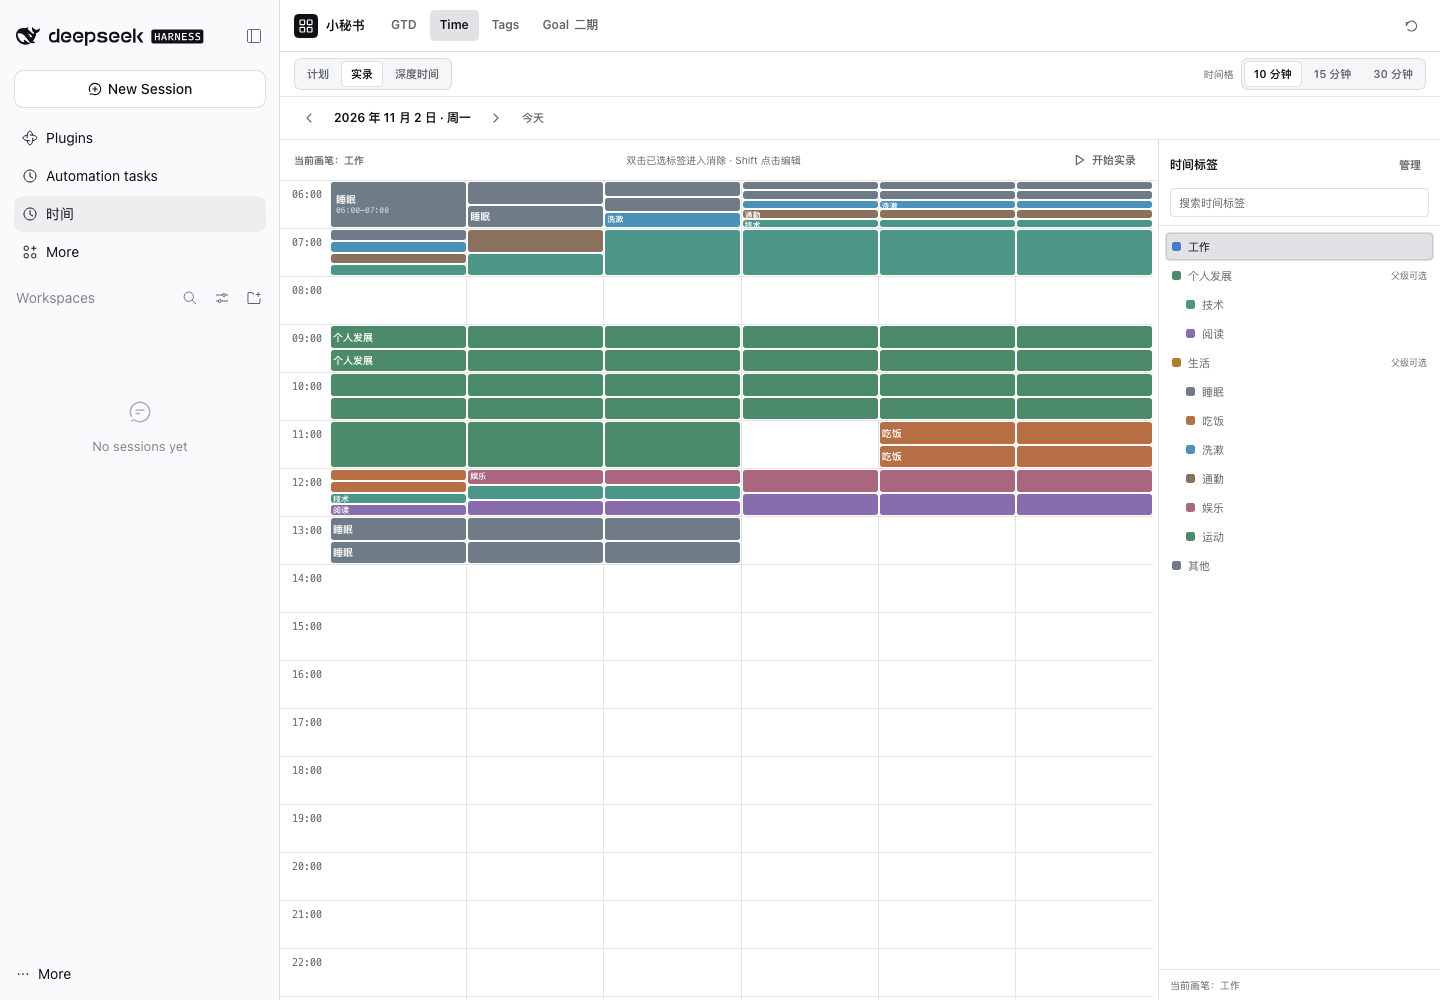
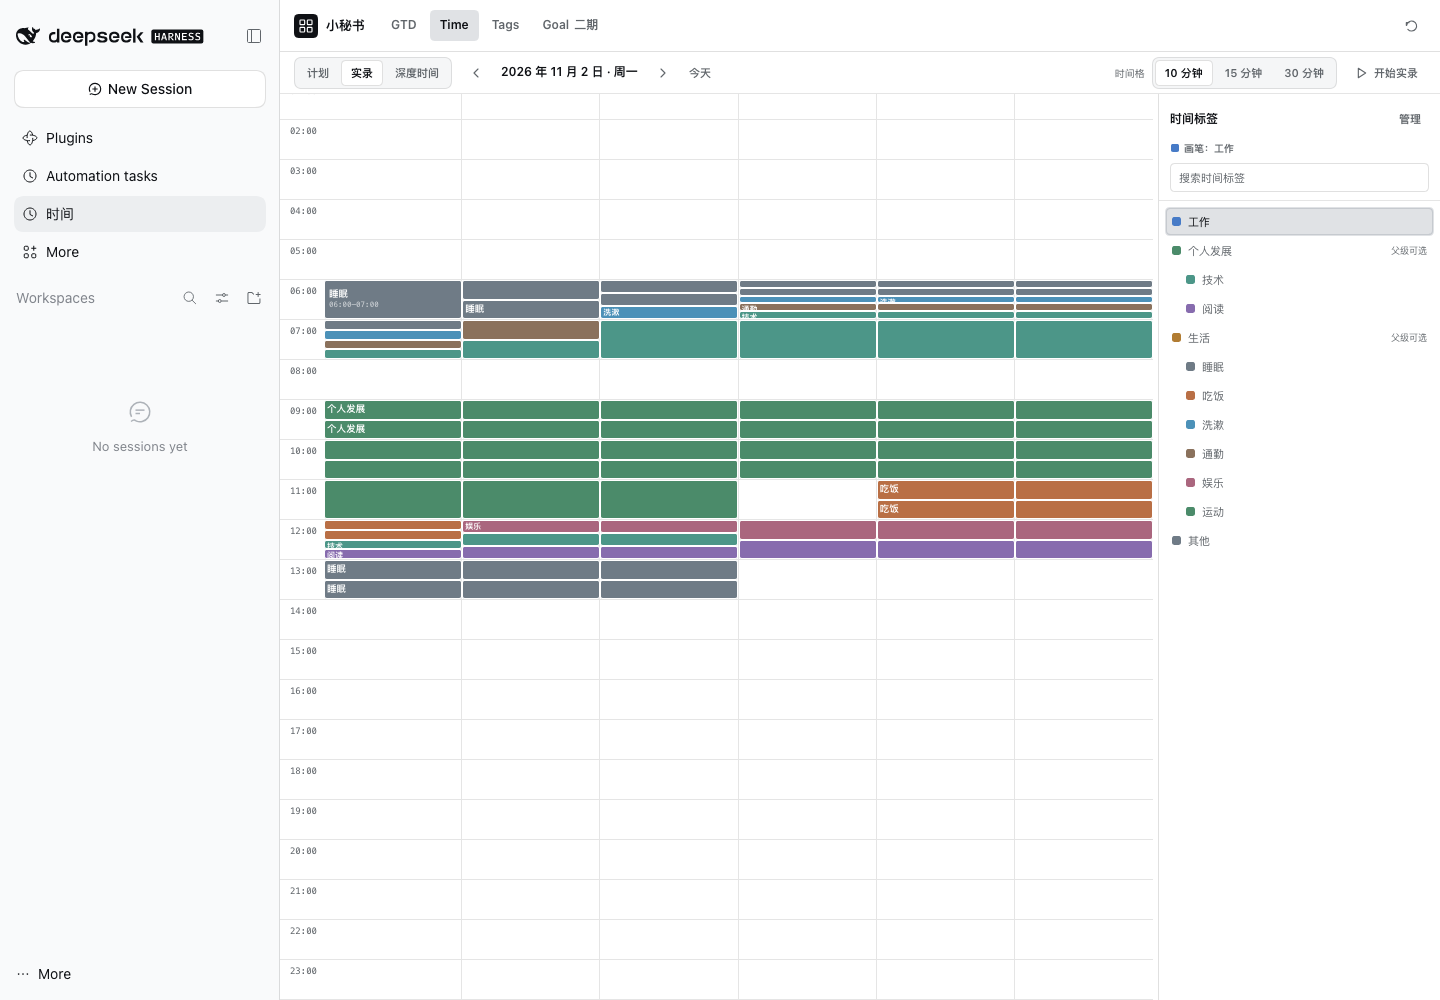
feat(panel): compact the panel chrome and drop the error row
- merge the time toolbar and date strip into one module bar; the canvas
  status row is gone and the brush/erase state lives in the tag shelf head
- GTD degradation becomes a topbar notice (icon + popover); command errors
  surface as a bottom toast so no banner row is inserted into the layout
- denser canvas: 40px hour rows, 44px hour column, 3px block radius and
  tighter label metrics; hour rows use the compact rhythm on mobile too

diff --git a/packages/panel/src/client/ActualPanel.tsx b/packages/panel/src/client/ActualPanel.tsx
@@ -174,6 +174,7 @@ export function ActualPanel() {
   const [forecast, setForecast] = useState<ActionView[]>([])
   const [warnings, setWarnings] = useState<PanelWarning[]>([])
   const [dismissedWarning, setDismissedWarning] = useState('')
+  const [noticesOpen, setNoticesOpen] = useState(false)
   const [deepBrush, setDeepBrush] = useState<DeepLevel>('high')
   const [selectedTagId, setSelectedTagId] = useState<number>()
   const [eraseMode, setEraseMode] = useState(false)
@@ -254,12 +255,13 @@ export function ActualPanel() {
   })
 
   useEffect(() => {
-    if (scrolled.current) return
-    const scroller = document.querySelector('.secretary-time-panel .canvas-scroll')
-    if (!scroller) return
+    if (scrolled.current || product !== 'time' || timeView === 'deep') return
+    const scroller = document.querySelector<HTMLElement>('.secretary-time-panel .canvas-scroll')
+    if (!scroller || scroller.scrollHeight <= scroller.clientHeight) return
+    const rowHeight = Number.parseFloat(getComputedStyle(scroller).getPropertyValue('--dsw-alias-row-height')) || 40
+    scroller.scrollTop = rowHeight * 6
     scrolled.current = true
-    scroller.scrollTop = 48 * 6
-  }, [product, timeView])
+  }, [product, timeView, blocks, plans])
 
   // Keep the floating editor inside the viewport once its real height is known.
   useEffect(() => {
@@ -860,6 +862,10 @@ export function ActualPanel() {
         <span className="shelf-title">时间标签</span>
         <button className="quiet-button" type="button" onClick={() => { setManagerKind('time'); setProduct('tags') }}>管理</button>
       </div>
+      <div className={`shelf-paint${eraseMode ? ' is-erase' : ''}`}>
+        {eraseMode ? <Icon name="x" /> : <span className="tag-dot" style={{ '--tag-color': selectedTagId === undefined ? DEFAULT_COLOR : tagColor(selectedTagId) } as React.CSSProperties} />}
+        <span>{eraseMode ? '消除状态' : `画笔：${brushName}`}</span>
+      </div>
       <input
         className="search-input" type="search" ref={searchRef} value={tagSearch}
         placeholder="搜索时间标签" aria-label="搜索时间标签"
@@ -867,54 +873,69 @@ export function ActualPanel() {
       />
     </div>
     <div className="shelf-body">{renderTagTree('time', tagSearch, selectedTagId, tag => { setSelectedTagId(tag.id); setEraseMode(false) })}</div>
-    <div className={`shelf-foot${eraseMode ? ' is-erase' : ''}`}>{selectionText}</div>
   </aside>
 
-  const dateStrip = <div className="date-strip">
-    <div className="date-nav">
-      <button className="icon-button" type="button" aria-label="前一天" onClick={() => { setDate(shiftDate(date, -1)); setTemplateMode(false) }}><Icon name="chevron-left" /></button>
-      <button className="date-label" type="button" aria-label="打开日历选择日期" onClick={event => openCalendar(event.currentTarget)}>{dateLabel(date)}</button>
-      <button className="icon-button" type="button" aria-label="后一天" onClick={() => { setDate(shiftDate(date, 1)); setTemplateMode(false) }}><Icon name="chevron-right" /></button>
-      <button className="quiet-button" type="button" onClick={goToday}>今天</button>
-    </div>
-    {timeView === 'plan' && <button className="quiet-button" type="button" onClick={() => { setWeekday(weekdayOf(date)); setTemplateMode(true) }}>计划模板</button>}
-    <span className="strip-tail">
-      {timeView === 'plan' && templateUndo && <button type="button" className="quiet-button" disabled={busy} onClick={() => void run({ domain: 'time', op: 'template.undo', targetDate: date, timeZone })}>撤销模板应用</button>}
+  const viewTabs = <div className="segmented" role="tablist" aria-label="Time 子模块">
+    {(['plan', 'actual', 'deep'] as TimeView[]).map(view => <button
+      type="button" role="tab" key={view} aria-selected={timeView === view}
+      onClick={() => { setTimeView(view); setTemplateMode(false); setCalendar(undefined); setEditing(undefined) }}
+    >{view === 'plan' ? '计划' : view === 'actual' ? '实录' : '深度时间'}</button>)}
+  </div>
+
+  const dateNav = <div className="date-nav">
+    <button className="icon-button" type="button" aria-label="前一天" onClick={() => { setDate(shiftDate(date, -1)); setTemplateMode(false) }}><Icon name="chevron-left" /></button>
+    <button className="date-label" type="button" aria-label="打开日历选择日期" onClick={event => openCalendar(event.currentTarget)}>{dateLabel(date)}</button>
+    <button className="icon-button" type="button" aria-label="后一天" onClick={() => { setDate(shiftDate(date, 1)); setTemplateMode(false) }}><Icon name="chevron-right" /></button>
+    <button className="quiet-button" type="button" onClick={goToday}>今天</button>
+  </div>
+
+  const weekStrip = <div className="week-strip" role="group" aria-label="模板星期">
+    {WEEKDAYS.map((label, index) => <button
+      type="button" className="week-day" key={label}
+      aria-current={weekday === index + 1 ? 'date' : 'false'}
+      onClick={() => setWeekday(index + 1)}
+    >{label}</button>)}
+  </div>
+
+  const moduleBar = <div className="module-bar">
+    {viewTabs}
+    {timeView === 'deep'
+      ? <span className="repeat-note">每周重复 · 自动沿用</span>
+      : templateMode
+        ? <>
+          {weekStrip}
+          <span className="template-actions">
+            <button type="button" className="primary-button" disabled={busy} onClick={() => void applyTemplate()}>应用到 {date}</button>
+            <button type="button" className="quiet-button" onClick={() => setTemplateMode(false)}>返回日期</button>
+          </span>
+        </>
+        : <>
+          {dateNav}
+          {timeView === 'plan' && <button className="quiet-button" type="button" onClick={() => { setWeekday(weekdayOf(date)); setTemplateMode(true) }}>计划模板</button>}
+          {timeView === 'plan' && templateUndo && <button type="button" className="quiet-button" disabled={busy} onClick={() => void run({ domain: 'time', op: 'template.undo', targetDate: date, timeZone })}>撤销模板应用</button>}
+        </>}
+    <span className="module-bar-tail">
+      {timeView !== 'deep' && <div className="granularity">
+        <span>时间格</span>
+        <div className="segmented" aria-label="时间格粒度">
+          {[10, 15, 30].map(value => <button
+            type="button" key={value} aria-pressed={granularity === value}
+            onClick={() => setGranularity(value)}
+          >{value} 分钟</button>)}
+        </div>
+      </div>}
+      {timeView === 'actual' && (running.length > 0
+        ? <button type="button" className="quiet-button record-toggle" disabled={busy} onClick={() => stopRunning(running[0])}>
+          <Icon name="stop" />停止 {tagName(running[0].timeTagId)}
+        </button>
+        : <button type="button" className="quiet-button record-toggle" disabled={busy || selectedTagId === undefined} onClick={startRunning}>
+          <Icon name="play" />开始实录
+        </button>)}
     </span>
   </div>
 
-  const templateStrip = <div className="date-strip">
-    <div className="week-strip" role="group" aria-label="模板星期">
-      {WEEKDAYS.map((label, index) => <button
-        type="button" className="week-day" key={label}
-        aria-current={weekday === index + 1 ? 'date' : 'false'}
-        onClick={() => setWeekday(index + 1)}
-      >{label}</button>)}
-    </div>
-    <div className="template-actions">
-      <span className="repeat-note">计划模板</span>
-      <button type="button" className="primary-button" disabled={busy} onClick={() => void applyTemplate()}>应用到 {date}</button>
-      <button type="button" className="quiet-button" onClick={() => setTemplateMode(false)}>返回日期</button>
-    </div>
-  </div>
-
   const canvasLayout = <div className="canvas-layout">
-    <section className="canvas-panel" aria-label="时间画布">
-      <div className="canvas-status">
-        <button type="button" className="brush-current" aria-label="选择当前时间画笔" onClick={() => searchRef.current?.focus()}>
-          {eraseMode ? '消除状态：点击记录消除' : `当前画笔：${brushName}`}
-        </button>
-        <span className="canvas-hint">双击已选标签进入消除 · Shift 点击编辑</span>
-        {timeView === 'actual' && running.length > 0
-          ? <button type="button" className="quiet-button record-toggle" disabled={busy} onClick={() => stopRunning(running[0])}>
-            <Icon name="stop" />停止 {tagName(running[0].timeTagId)}
-          </button>
-          : timeView === 'actual'
-            ? <button type="button" className="quiet-button record-toggle" disabled={busy || selectedTagId === undefined} onClick={startRunning}>
-              <Icon name="play" />开始实录
-            </button>
-            : null}
-      </div>
+    <section className="canvas-panel" aria-label="时间画布" title="双击已选标签进入消除 · Shift 点击编辑">
       <div className="canvas-scroll"><div className="day-grid">{canvasRows}</div></div>
     </section>
     {shelf}
@@ -960,29 +981,8 @@ export function ActualPanel() {
   </section>
 
   const timeModule = <section className="time-module">
-    <div className="time-toolbar">
-      <div className="segmented" role="tablist" aria-label="Time 子模块">
-        {(['plan', 'actual', 'deep'] as TimeView[]).map(view => <button
-          type="button" role="tab" key={view} aria-selected={timeView === view}
-          onClick={() => { setTimeView(view); setTemplateMode(false); setCalendar(undefined); setEditing(undefined) }}
-        >{view === 'plan' ? '计划' : view === 'actual' ? '实录' : '深度时间'}</button>)}
-      </div>
-      {timeView === 'deep'
-        ? <span className="repeat-note">每周重复 · 自动沿用</span>
-        : <div className="granularity">
-          <span>时间格</span>
-          <div className="segmented" aria-label="时间格粒度">
-            {[10, 15, 30].map(value => <button
-              type="button" key={value} aria-pressed={granularity === value}
-              onClick={() => setGranularity(value)}
-            >{value} 分钟</button>)}
-          </div>
-        </div>}
-    </div>
-    {timeView === 'deep' ? energyModule : <>
-      {templateMode && timeView === 'plan' ? templateStrip : dateStrip}
-      {canvasLayout}
-    </>}
+    {moduleBar}
+    {timeView === 'deep' ? energyModule : canvasLayout}
   </section>
 
   const managedTree = (parentId: number | undefined, depth: number): React.ReactNode[] => tags
@@ -1125,9 +1125,7 @@ export function ActualPanel() {
   </div>
 
   const warning = warnings.find(item => item.message !== dismissedWarning)
-  const banner = error !== ''
-    ? { tone: 'is-error', message: error, dismiss: () => setError('') }
-    : warning === undefined ? undefined : { tone: '', message: warning.message, dismiss: () => setDismissedWarning(warning.message) }
+  const notice = warning === undefined ? undefined : { message: warning.message, dismiss: () => setDismissedWarning(warning.message) }
 
   return <div className="secretary-time-panel">
     <IconSprite />
@@ -1150,15 +1148,23 @@ export function ActualPanel() {
         >{item === 'gtd' ? 'GTD' : item === 'time' ? 'Time' : item === 'tags' ? 'Tags' : <>Goal <span className="phase-badge">二期</span></>}</button>)}
       </nav>
       <div className="top-actions">
+        {notice !== undefined && <button
+          type="button" className="icon-button" aria-label="提示" aria-expanded={noticesOpen}
+          title="有一条提示" onClick={() => setNoticesOpen(value => !value)}
+        ><Icon name="alert" /></button>}
         <button
           type="button" className="icon-button" aria-label="撤销" title="撤销 Cmd/Ctrl+Z"
           disabled={undoStack.length === 0 || busy} onClick={() => void undoLast()}
         ><Icon name="undo" /></button>
       </div>
     </header>
-    {banner !== undefined && <div className={`warning-strip ${banner.tone}`} role="alert">
-      <span>{banner.message}</span>
-      <button type="button" onClick={banner.dismiss}>知道了</button>
+    {notice !== undefined && noticesOpen && <div className="notice-popover" role="status">
+      <div className="notice-text">{notice.message}</div>
+      <button type="button" className="quiet-button" onClick={() => { notice.dismiss(); setNoticesOpen(false) }}>知道了</button>
+    </div>}
+    {error !== '' && <div className="toast" role="alert">
+      <span className="toast-message">{error}</span>
+      <button type="button" onClick={() => setError('')}>关闭</button>
     </div>}
 
     {product === 'gtd' && <GtdWorkspace

diff --git a/packages/panel/src/client/panelStyles.ts b/packages/panel/src/client/panelStyles.ts
@@ -51,8 +51,8 @@ export const panelStyles = `.secretary-time-panel {
   --dsw-alias-radius-small: 6px;
   --dsw-alias-radius: 9px;
   --dsw-alias-radius-large: 12px;
-  --dsw-alias-row-height: 48px;
-  --dsw-alias-hour-width: 50px;
+  --dsw-alias-row-height: 40px;
+  --dsw-alias-hour-width: 44px;
   --dsw-alias-motion: 140ms;
 }
 
@@ -118,7 +118,8 @@ export const panelStyles = `.secretary-time-panel {
 .secretary-time-panel .canvas-scroll { flex: 1; min-height: 0; overflow-y: auto; overflow-x: hidden; overscroll-behavior: contain; scrollbar-gutter: stable; }
 .secretary-time-panel .day-grid { min-width: 0; }
 .secretary-time-panel .hour-row { display: grid; grid-template-columns: var(--dsw-alias-hour-width) minmax(0, 1fr); height: var(--dsw-alias-row-height); border-bottom: 1px solid var(--dsw-alias-border-soft); }
-.secretary-time-panel .hour-label { padding: 7px 8px 0 0; text-align: right; color: var(--dsw-alias-muted); font-family: var(--dsw-alias-font-mono); font-size: 10px; user-select: none; }
+.secretary-time-panel .day-grid { border-top: 1px solid var(--dsw-alias-border-soft); }
+.secretary-time-panel .hour-label { padding: 5px 7px 0 0; text-align: right; color: var(--dsw-alias-muted); font-family: var(--dsw-alias-font-mono); font-size: 9px; font-variant-numeric: tabular-nums; user-select: none; }
 .secretary-time-panel .hour-track { min-width: 0; height: 100%; position: relative; }
 .secretary-time-panel .slot-grid { position: absolute; inset: 0; display: grid; z-index: 1; }
 .secretary-time-panel .slot { min-width: 0; border: 0; border-right: 1px solid var(--dsw-alias-border-soft); background: transparent; padding: 0; touch-action: pan-y; }
@@ -126,11 +127,11 @@ export const panelStyles = `.secretary-time-panel {
 .secretary-time-panel .slot:hover { background: var(--dsw-alias-accent-soft); }
 .secretary-time-panel .slot.is-selected { background: var(--dsw-alias-accent-soft); box-shadow: inset 0 0 0 1px var(--dsw-alias-accent); }
 .secretary-time-panel .record-layer { position: absolute; inset: 0; z-index: 2; pointer-events: none; }
-.secretary-time-panel .record-fragment { position: absolute; pointer-events: auto; min-width: 0; overflow: hidden; border: 1px solid var(--dsw-alias-bg); border-radius: 4px; background: var(--record-color); color: var(--dsw-alias-on-tag); padding: 3px 5px; text-align: left; touch-action: manipulation; }
+.secretary-time-panel .record-fragment { position: absolute; pointer-events: auto; min-width: 0; overflow: hidden; border: 1px solid var(--dsw-alias-bg); border-radius: 3px; background: var(--record-color); color: var(--dsw-alias-on-tag); padding: 2px 4px; text-align: left; touch-action: manipulation; }
 .secretary-time-panel .record-fragment:hover { filter: brightness(1.05); }
 .secretary-time-panel .record-fragment.is-selected { box-shadow: 0 0 0 2px var(--dsw-alias-accent); z-index: 5; }
-.secretary-time-panel .record-name { display: block; overflow: hidden; white-space: nowrap; text-overflow: ellipsis; font-size: 10px; font-weight: 650; line-height: 1.2; }
-.secretary-time-panel .record-time { display: block; margin-top: 2px; color: inherit; opacity: 0.72; font-family: var(--dsw-alias-font-mono); font-size: 8px; line-height: 1.1; }
+.secretary-time-panel .record-name { display: block; overflow: hidden; white-space: nowrap; text-overflow: ellipsis; font-size: 9.5px; font-weight: 600; line-height: 1.15; letter-spacing: 0.01em; }
+.secretary-time-panel .record-time { display: block; margin-top: 1px; color: inherit; opacity: 0.7; font-family: var(--dsw-alias-font-mono); font-size: 7.5px; line-height: 1.1; font-variant-numeric: tabular-nums; }
 .secretary-time-panel .record-fragment.is-continuation .record-name, .secretary-time-panel .record-fragment.is-continuation .record-time { display: none; }
 .secretary-time-panel .record-fragment.is-compact { padding: 1px 2px; }
 .secretary-time-panel .record-fragment.is-compact .record-time { display: none; }
@@ -293,6 +294,13 @@ export const panelStyles = `.secretary-time-panel {
 .secretary-time-panel .gtd-row-actions { display: flex; flex-wrap: wrap; gap: 5px; }
 .secretary-time-panel .gtd-section-title label { flex-direction: row; align-items: center; }
 
+@media (max-width: 700px) {
+  .secretary-time-panel .module-bar { flex-wrap: wrap; row-gap: 4px; padding: 5px 8px; }
+  .secretary-time-panel .module-bar-tail { margin-left: 0; width: 100%; justify-content: space-between; }
+  .secretary-time-panel .granularity > span { display: none; }
+  .secretary-time-panel .module-bar .week-strip { order: 3; width: 100%; }
+}
+
 @media (max-width: 640px) {
   .secretary-time-panel .gtd-tabs { padding-inline: 8px; }
   .secretary-time-panel .gtd-section { padding: 10px 8px; }
@@ -308,4 +316,16 @@ body[data-ds-dark-theme] .secretary-time-panel .manage-color { filter: brightnes
 @media (max-width: 640px) { .secretary-time-panel .canvas-hint { display: none; } }
 .secretary-time-panel .editor-tags { max-height: 240px; overflow-y: auto; }
 .secretary-time-panel .editor-actions-tail { display: flex; align-items: center; gap: 6px; }
+.secretary-time-panel .module-bar { flex: none; display: flex; align-items: center; gap: 9px; min-height: 42px; padding: 4px 14px; background: var(--dsw-alias-surface); border-bottom: 1px solid var(--dsw-alias-border-soft); }
+.secretary-time-panel .module-bar-tail { margin-left: auto; display: flex; align-items: center; gap: 8px; }
+.secretary-time-panel .module-bar .date-label { font-weight: 600; }
+.secretary-time-panel .shelf-paint { display: flex; align-items: center; gap: 5px; margin-top: 7px; padding: 0 1px; color: var(--dsw-alias-text-secondary); font-size: 10px; font-weight: 600; }
+.secretary-time-panel .shelf-paint .tag-dot { width: 8px; height: 8px; border-radius: 2px; }
+.secretary-time-panel .shelf-paint.is-erase { color: var(--dsw-alias-danger); }
+.secretary-time-panel .shelf-paint-hint { margin-left: auto; width: 15px; height: 15px; display: grid; place-items: center; border: 1px solid var(--dsw-alias-border); border-radius: 50%; background: transparent; color: var(--dsw-alias-muted); padding: 0; font-size: 9px; line-height: 1; }
+.secretary-time-panel .notice-popover { position: absolute; z-index: 95; top: calc(100% + 6px); right: 12px; width: min(430px, calc(100% - 24px)); display: flex; align-items: flex-start; gap: 10px; padding: 10px 12px; border: 1px solid var(--dsw-alias-border); border-radius: var(--dsw-alias-radius); background: var(--dsw-alias-surface-raised); box-shadow: var(--dsw-alias-shadow); }
+.secretary-time-panel .notice-text { flex: 1; min-width: 0; color: var(--dsw-alias-text-secondary); font-size: 11px; line-height: 1.45; word-break: break-word; }
+.secretary-time-panel .toast { position: absolute; z-index: 96; left: 50%; bottom: 18px; transform: translateX(-50%); max-width: calc(100% - 24px); display: flex; align-items: center; gap: 10px; padding: 7px 11px; border-radius: var(--dsw-alias-radius); background: var(--dsw-alias-text); color: var(--dsw-alias-surface); box-shadow: var(--dsw-alias-shadow); font-size: 11px; }
+.secretary-time-panel .toast-message { min-width: 0; overflow: hidden; text-overflow: ellipsis; white-space: nowrap; }
+.secretary-time-panel .toast button { flex: none; border: 0; background: transparent; color: inherit; padding: 2px 3px; font-size: 10px; text-decoration: underline; }
 `

diff --git a/packages/panel/src/client/Icons.tsx b/packages/panel/src/client/Icons.tsx
@@ -12,6 +12,7 @@ export function IconSprite() {
     <symbol id="i-undo" viewBox="0 0 24 24"><path d="M9 7H5v4M5.5 11a7.5 7.5 0 1 1 1.8 6" /></symbol>
     <symbol id="i-tags" viewBox="0 0 24 24"><path d="M20 13l-7 7-9-9V4h7l9 9z" /><circle cx="8.5" cy="8.5" r="1.2" /></symbol>
     <symbol id="i-drag" viewBox="0 0 24 24"><circle cx="9" cy="7" r="1" /><circle cx="15" cy="7" r="1" /><circle cx="9" cy="12" r="1" /><circle cx="15" cy="12" r="1" /><circle cx="9" cy="17" r="1" /><circle cx="15" cy="17" r="1" /></symbol>
+    <symbol id="i-alert" viewBox="0 0 24 24"><path d="M12 4.5l8.5 15h-17l8.5-15z" /><path d="M12 10v4.5M12 17.2v.3" /></symbol>
     <symbol id="i-play" viewBox="0 0 24 24"><path d="M8 5l11 7-11 7V5z" /></symbol>
     <symbol id="i-stop" viewBox="0 0 24 24"><rect x="6" y="6" width="12" height="12" rx="2" /></symbol>
   </defs></svg>

diff --git a/docs/verification.md b/docs/verification.md
@@ -45,12 +45,12 @@ git diff --check
 
 所有用例都启动隔离 `DSH_HOME` 中的真实 `dsh web` 和生产 client，不使用静态 prototype，不连接真实 desktop profile。
 
-- 面板结构与原型一致：顶部 brand＋一级模块、Time 分段＋时间格粒度、日期条（含“计划模板”与“撤销模板应用”）、画布状态条（当前画笔／消除状态／开始实录）、24×48px 画布、右侧时间标签架（搜索、层级、父级可选、状态脚注），Float 编辑浮层与月历浮层贴靠触发元素并在视口内收边。
-- 时间块按“每个时间格一个绝对定位片段”绘制，同一记录跨格只首格带名称与时间；平行记录按 lane 等分高度。10／15／30 分钟切换、N 等分、48px 行高、跨小时标题与 Shift 编辑均有断言。
+- 面板只有两层头部：顶栏（brand＋一级模块＋提示图标＋撤销）与合并后的单条模块栏（视图分段＋日期导航＋计划模板／撤销模板应用＋时间格粒度＋开始实录）；原画布状态条已并入标签架头部，画布为 24×40px 紧凑节奏。
+- 时间块按“每个时间格一个绝对定位片段”绘制，同一记录跨格只首格带名称与时间；平行记录按 lane 等分高度。10／15／30 分钟切换、N 等分、40px 行高、跨小时标题与 Shift 编辑均有断言。
 - 日期计划与实录：点击格子添加、点同标签记录消除、双击已选标签进入消除态、整段拖刷消除、Shift 点击编辑；模板模式直接在画布上按星期编辑并在应用后互不回写。
 - 编辑浮层为一次性提交：标签、备注、开始／结束时刻、来源与专注档位在“保存”时合成一条命令并只产生一条 Undo 记录；未改动时保存不写入。
 - 顶部撤销入口承载添加／消除／编辑 Undo（栈空时按钮 disabled）；recreate 产生新 ID 后，继续撤销较早编辑和添加。Actual 与 Plan 均覆盖整次 erase drag 恢复及后续 Undo 链。
-- 整批 Actual erase 的第二次 delete 注入 HTTP 500：错误以顶部警示条持续可见，首条已删除记录保留 Undo，恢复后首条与未删除的第二条同时存在，随后两次 Undo 依栈序清空两条。
+- 整批 Actual erase 的第二次 delete 注入 HTTP 500：错误以底部 toast 呈现（不占头部版面）并持续可见，首条已删除记录保留 Undo，恢复后首条与未删除的第二条同时存在，随后两次 Undo 依栈序清空两条；成功操作后 toast 清除。
 - Plan 跨午夜块在次日消除后 Undo 恢复到原始开始日期；在原日消除、切换到其他日期后 Undo 也恢复原日。两种场景均产生新 ID，且最终无错误提示。
 - 三条 Actual 的 erase Undo 在第二次 create 注入 HTTP 500：不误弹栈，已恢复首条与剩余两条命令保留；重试只执行剩余两条，随后较早编辑和三个添加逆操作均正确使用 remap 后的新 ID。
 - time 和 context 都通过真实桌面 HTML5 drag/drop 拖到父级并移回根级；Host 重新读取持久化 parentId，Time 画布重新读取 depth。Time→Tags 为 time，GTD→Tags 为 context。
